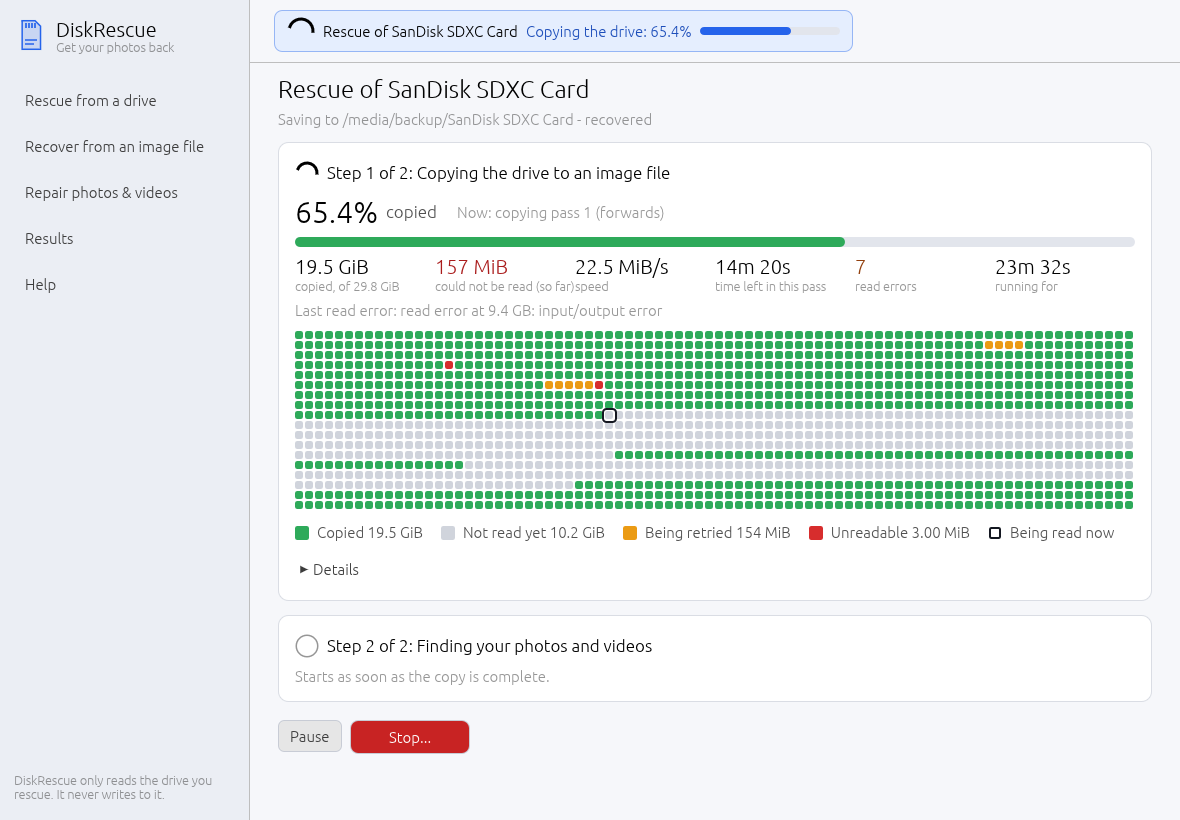
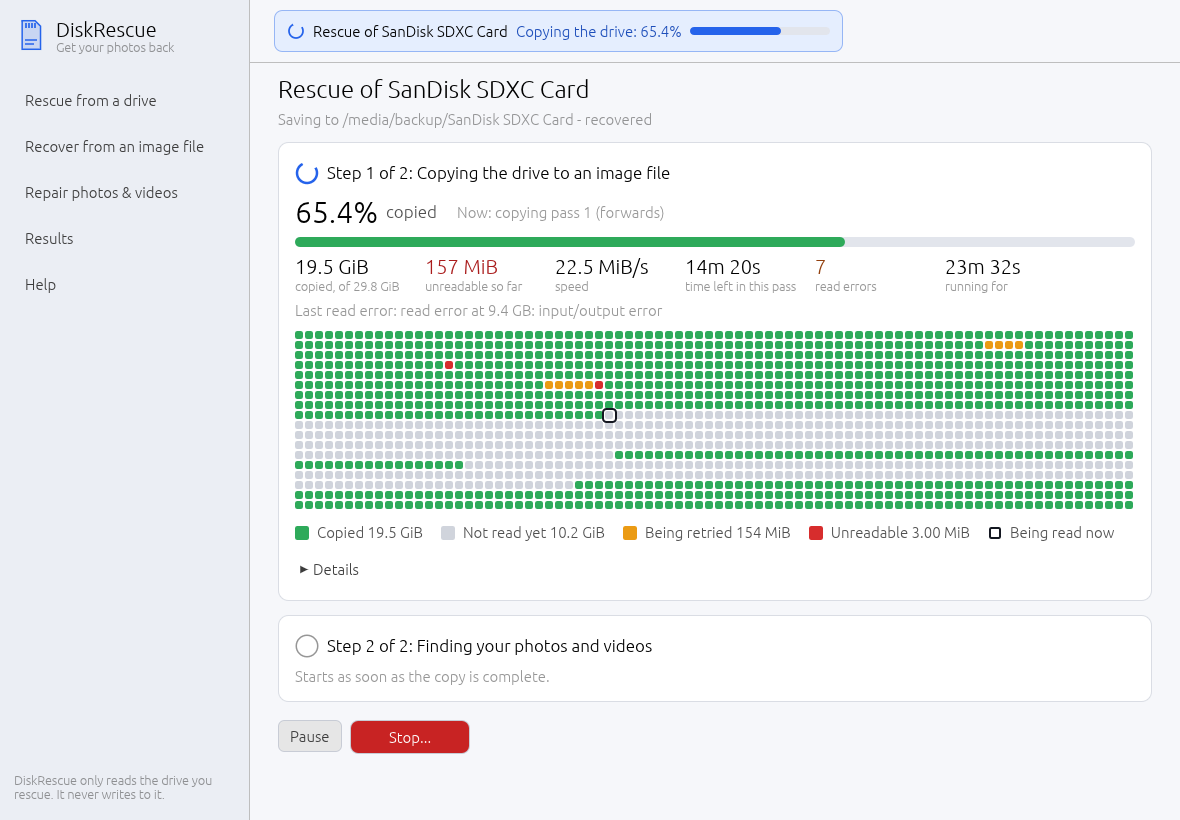
fix(gui): steadier progress display and safer repair destinations
A constant-length busy ring replaces egui's spinner (calmer, and the same
in every screenshot); figures sit in even columns; the newest files are
shown only while a rescue runs and without provisional verdicts; stage
times under a second are left out. The repair page warns when repaired
copies would be written next to the damaged files, which may be on the
card being rescued. A finished rescue forgets its wizard settings.

diff --git a/crates/diskrescue-gui/src/progress.rs b/crates/diskrescue-gui/src/progress.rs
@@ -420,7 +420,7 @@ pub fn show(
                 recovery_panel(ui, r, &job.output, thumbs);
             } else if snap.outcome.is_none() && !snap.imaging() {
                 ui.horizontal(|ui| {
-                    ui.spinner();
+                    widgets::busy(ui, 18.0);
                     ui.label("Getting ready...");
                 });
             } else if snap.imaging() {
@@ -500,7 +500,7 @@ fn step_header(ui: &mut Ui, title: &str, state: StepState) {
             StepState::Stopped => icons::cross(ui.painter(), r.center(), 11.0, warn),
             StepState::Waiting => icons::pending(ui.painter(), r.center(), 11.0, weak),
             StepState::Running => {
-                egui::Spinner::new().size(20.0).paint_at(ui, r);
+                widgets::busy_at(ui, r);
             }
         }
         ui.label(RichText::new(title).strong().size(17.0));
@@ -549,7 +549,7 @@ fn imaging_panel(ui: &mut Ui, img: &ImageState, snap: &Snapshot, cache: &mut Map
         }
         None => {
             ui.horizontal(|ui| {
-                ui.spinner();
+                widgets::busy(ui, 18.0);
                 ui.label(match img.status {
                     ImageStatus::Checking => "Checking that everything is safe...",
                     _ if snap.privileged => "Waiting for administrator rights...",
@@ -586,7 +586,7 @@ fn imaging_panel(ui: &mut Ui, img: &ImageState, snap: &Snapshot, cache: &mut Map
                     None,
                 ),
                 widgets::Stat::new(
-                    "could not be read (so far)",
+                    "unreadable so far",
                     text::bytes(bad),
                     Some(if bad > 0 { Kind::Bad } else { Kind::Good }),
                 ),
@@ -764,7 +764,7 @@ fn recovery_panel(ui: &mut Ui, r: &RecoverState, output: &Path, thumbs: &mut Thu
             let (rect, _) = ui.allocate_exact_size(vec2(22.0, 22.0), Sense::hover());
             let good = theme::palette(ui.visuals(), Kind::Good).fg;
             if running {
-                egui::Spinner::new().size(18.0).paint_at(ui, rect);
+                widgets::busy_at(ui, rect);
             } else if last && r.interrupted {
                 icons::cross(
                     ui.painter(),
@@ -786,7 +786,7 @@ fn recovery_panel(ui: &mut Ui, r: &RecoverState, output: &Path, thumbs: &mut Thu
                 RichText::new(label)
             });
             if let Some(t) = s.took {
-                if !running {
+                if !running && t.as_secs() >= 1 {
                     widgets::weak(ui, format!("({})", text::duration(t)));
                 }
             }
@@ -834,7 +834,7 @@ fn recovery_panel(ui: &mut Ui, r: &RecoverState, output: &Path, thumbs: &mut Thu
     }
     if n == 0 && !done {
         ui.horizontal(|ui| {
-            ui.spinner();
+            widgets::busy(ui, 18.0);
             ui.label("Opening...");
         });
     }
@@ -878,13 +878,20 @@ fn recovery_panel(ui: &mut Ui, r: &RecoverState, output: &Path, thumbs: &mut Thu
         widgets::stats(ui, &items);
     }
 
-    let recent: Vec<_> = p
-        .recent_files
-        .iter()
-        .rev()
-        .filter(|f| f.outcome != Outcome::Duplicate)
-        .take(14)
-        .collect();
+    // While it runs: the newest files (each once). Outcomes can still
+    // change (a damaged file may be repaired), so no verdict is shown;
+    // the Results page has the final word.
+    let mut recent: Vec<&diskrescue_app::jobs::FinishedFile> = Vec::new();
+    if !done {
+        for f in p.recent_files.iter().rev() {
+            if f.outcome != Outcome::Duplicate && !recent.iter().any(|x| x.name == f.name) {
+                recent.push(f);
+            }
+            if recent.len() >= 14 {
+                break;
+            }
+        }
+    }
     if !recent.is_empty() {
         ui.add_space(6.0);
         ui.label(RichText::new("Found most recently").strong());
@@ -892,10 +899,8 @@ fn recovery_panel(ui: &mut Ui, r: &RecoverState, output: &Path, thumbs: &mut Thu
             for f in recent {
                 let path = output.join(&f.name);
                 let name = system::file_name(Path::new(&f.name));
-                let kind = Kind::from(text::outcome_tone(f.outcome));
-                let kind = (kind != Kind::Good).then_some(kind);
-                tile(ui, thumbs, &path, category_of(&path), 84.0, &name, kind)
-                    .on_hover_text(format!("{} ({})", f.name, text::outcome_label(f.outcome)));
+                tile(ui, thumbs, &path, category_of(&path), 84.0, &name, None)
+                    .on_hover_text(f.name.as_str());
             }
         });
     }

diff --git a/crates/diskrescue-gui/src/app.rs b/crates/diskrescue-gui/src/app.rs
@@ -246,6 +246,10 @@ impl DiskRescueApp {
                 ));
                 job.results_taken = true;
                 let snap = job.snapshot();
+                if snap.outcome == Some(diskrescue_app::JobOutcome::Finished) {
+                    // Done: the settings are not needed again.
+                    self.wizard = None;
+                }
                 if let Some(r) = snap.report() {
                     self.results.set_report(&job.output, r.clone());
                     self.saved.remember(job.output.clone());
@@ -375,7 +379,7 @@ impl DiskRescueApp {
                         .show(ui, |ui| {
                             ui.horizontal(|ui| {
                                 if running {
-                                    ui.spinner();
+                                    widgets::busy(ui, 18.0);
                                 } else {
                                     let (r, _) =
                                         ui.allocate_exact_size(vec2(18.0, 18.0), Sense::hover());
@@ -409,7 +413,7 @@ impl DiskRescueApp {
             }
             if self.repair.running() {
                 ui.add_space(8.0);
-                ui.spinner();
+                widgets::busy(ui, 18.0);
                 ui.label("Repairing files...");
                 if self.page != Page::Repair && ui.button("View").clicked() {
                     self.page = Page::Repair;
@@ -553,13 +557,14 @@ impl DiskRescueApp {
                         donor,
                         output,
                     }) => {
+                        // One repair at a time: a running one is shown instead.
                         if !self.repair.running() {
                             self.repair.files = vec![file.clone()];
                             self.repair.donors = vec![donor.clone()];
                             self.repair.output = output.display().to_string();
                             self.repair.start(vec![file], vec![donor], output);
-                            self.page = Page::Repair;
                         }
+                        self.page = Page::Repair;
                     }
                     Some(results::Action::Opened(p)) => self.saved.remember(p),
                     Some(results::Action::Forget(p)) => {
@@ -706,7 +711,7 @@ impl DiskRescueApp {
             egui::Modal::new(egui::Id::new("closing")).show(ctx, |ui| {
                 ui.set_width(360.0);
                 ui.horizontal(|ui| {
-                    ui.spinner();
+                    widgets::busy(ui, 18.0);
                     ui.label(RichText::new("Saving and stopping...").strong());
                 });
                 ui.label("DiskRescue closes as soon as everything is saved.");

diff --git a/crates/diskrescue-gui/src/widgets.rs b/crates/diskrescue-gui/src/widgets.rs
@@ -284,6 +284,37 @@ pub fn stat(ui: &mut Ui, caption: &str, value: &str, kind: Option<Kind>) {
     });
 }
 
+/// A calm "working" indicator: a three-quarter ring turning slowly
+/// (always the same length, unlike egui's spinner, so that it reads the
+/// same in every frame). Animates at about 30 frames per second.
+pub fn busy_at(ui: &Ui, rect: egui::Rect) {
+    let t = ui.input(|i| i.time);
+    ui.ctx()
+        .request_repaint_after(std::time::Duration::from_millis(33));
+    let c = rect.center();
+    let r = rect.width().min(rect.height()) / 2.0 - 2.0;
+    let start = (t * 4.0 % std::f64::consts::TAU) as f32;
+    let n = 28;
+    let pts: Vec<egui::Pos2> = (0..=n)
+        .map(|i| {
+            let a = start + i as f32 / n as f32 * std::f32::consts::TAU * 0.75;
+            c + vec2(a.cos(), a.sin()) * r
+        })
+        .collect();
+    let color = theme::accent(ui.visuals());
+    ui.painter().add(egui::Shape::line(
+        pts,
+        Stroke::new((r / 4.0).max(1.5), color),
+    ));
+}
+
+/// [`busy_at`] in a square of `size` points.
+pub fn busy(ui: &mut Ui, size: f32) -> Response {
+    let (rect, resp) = ui.allocate_exact_size(vec2(size, size), Sense::hover());
+    busy_at(ui, rect);
+    resp
+}
+
 /// One figure of a [`stats`] row.
 pub struct Stat {
     /// What it is ("speed").
@@ -308,17 +339,18 @@ impl Stat {
 /// Figures in columns of equal width, wrapping onto more rows when the
 /// window is narrow.
 pub fn stats(ui: &mut Ui, items: &[Stat]) {
-    let min_col = 135.0;
+    let min_col = 140.0;
     let avail = ui.available_width();
-    let per_row = ((avail / min_col).floor() as usize).clamp(1, items.len().max(1));
-    let w = avail / per_row as f32;
+    let cols = ((avail / min_col).floor() as usize).max(1);
+    let w = avail / cols as f32;
+    let per_row = cols.min(items.len().max(1));
     for chunk in items.chunks(per_row) {
         ui.horizontal_top(|ui| {
             ui.spacing_mut().item_spacing.x = 0.0;
             for s in chunk {
                 ui.allocate_ui_with_layout(vec2(w, 0.0), Layout::top_down(Align::Min), |ui| {
-                    ui.set_min_width(w);
-                    ui.set_max_width(w - 8.0);
+                    ui.set_min_width(w - 10.0);
+                    ui.set_max_width(w - 10.0);
                     stat(ui, &s.caption, &s.value, s.kind);
                 });
             }

diff --git a/crates/diskrescue-gui/src/repair.rs b/crates/diskrescue-gui/src/repair.rs
@@ -360,6 +360,21 @@ impl RepairPage {
             if f.browse {
                 self.pick(&ctx, Target::Output);
             }
+            let out = expand(&self.output);
+            let beside = self
+                .files
+                .iter()
+                .any(|f| f.parent().is_some_and(|d| out.starts_with(d)));
+            if !self.output.trim().is_empty() && beside {
+                widgets::callout_text(
+                    ui,
+                    Kind::Warn,
+                    "This saves the copies next to the damaged files",
+                    "If those files are on the card or drive you want to rescue, choose a folder on \
+                     your computer instead: writing to that card or drive can overwrite deleted \
+                     photos.",
+                );
+            }
         });
 
         ui.add_space(10.0);
@@ -379,7 +394,7 @@ impl RepairPage {
                 self.scroll_top = true;
             }
             if running {
-                ui.spinner();
+                widgets::busy(ui, 18.0);
                 let s = self.job.as_ref().map(|j| j.snapshot()).unwrap_or_default();
                 let stage = if s.pipeline.stage_label.is_empty() {
                     "Starting...".to_string()
@@ -402,7 +417,7 @@ impl RepairPage {
             if !job.is_finished() {
                 let s = job.snapshot();
                 ui.horizontal(|ui| {
-                    ui.spinner();
+                    widgets::busy(ui, 18.0);
                     let stage = if s.pipeline.stage_label.is_empty() {
                         "Starting...".to_string()
                     } else {

diff --git a/crates/diskrescue-gui/src/results.rs b/crates/diskrescue-gui/src/results.rs
@@ -482,7 +482,7 @@ impl Results {
                     self.load(ui.ctx(), p);
                 }
                 if self.loading.is_some() {
-                    ui.spinner();
+                    widgets::busy(ui, 18.0);
                     ui.label("Opening...");
                 }
             });
@@ -559,7 +559,7 @@ impl Results {
                 );
             }
             Thumb::Loading => {
-                egui::Spinner::new().paint_at(
+                widgets::busy_at(
                     ui,
                     egui::Rect::from_center_size(rect.center(), vec2(24.0, 24.0)),
                 );

diff --git a/crates/diskrescue-gui/tests/ui/gallery.rs b/crates/diskrescue-gui/tests/ui/gallery.rs
@@ -10,7 +10,8 @@ use crate::common::*;
 use diskrescue_gui::{DiskRescueApp, Page};
 use egui_kittest::Harness;
 
-fn shoot(h: &mut Harness<'static, DiskRescueApp>, name: &str) {
+/// Save the current frame to `$DISKRESCUE_GALLERY_DIR` (when set).
+pub fn shoot(h: &mut Harness<'static, DiskRescueApp>, name: &str) {
     for _ in 0..3 {
         h.step();
     }

diff --git a/crates/diskrescue-gui/src/wizard.rs b/crates/diskrescue-gui/src/wizard.rs
@@ -951,7 +951,7 @@ impl Wizard {
         let plan = self.plan();
         let Some(check) = self.check.get(&plan).cloned() else {
             ui.horizontal(|ui| {
-                ui.spinner();
+                widgets::busy(ui, 18.0);
                 ui.label("Checking that everything is safe...");
             });
             return None;

diff --git a/crates/diskrescue-gui/src/image_page.rs b/crates/diskrescue-gui/src/image_page.rs
@@ -126,7 +126,7 @@ impl ImagePage {
             match self.info.get(&p) {
                 None => {
                     ui.horizontal(|ui| {
-                        ui.spinner();
+                        widgets::busy(ui, 18.0);
                         ui.label("Looking at the file...");
                     });
                 }

diff --git a/crates/diskrescue-gui/src/drives.rs b/crates/diskrescue-gui/src/drives.rs
@@ -255,7 +255,7 @@ pub fn show(ui: &mut Ui, drives: &Drives, job_running: bool) -> Option<Action> {
 
     if !drives.loaded && drives.entries.is_empty() {
         ui.horizontal(|ui| {
-            ui.spinner();
+            widgets::busy(ui, 18.0);
             ui.label("Looking for drives...");
         });
         return action;

diff --git a/crates/diskrescue-gui/tests/ui/flow.rs b/crates/diskrescue-gui/tests/ui/flow.rs
@@ -87,6 +87,7 @@ fn recovering_an_image_file_through_the_ui() {
         "Finished: 11 files were recovered"
     ));
     assert!(!h.state().busy());
+    crate::gallery::shoot(&mut h, "flow-finished");
     click(&mut h, "See your recovered files");
     assert_eq!(h.state().page, Page::Results);
 
